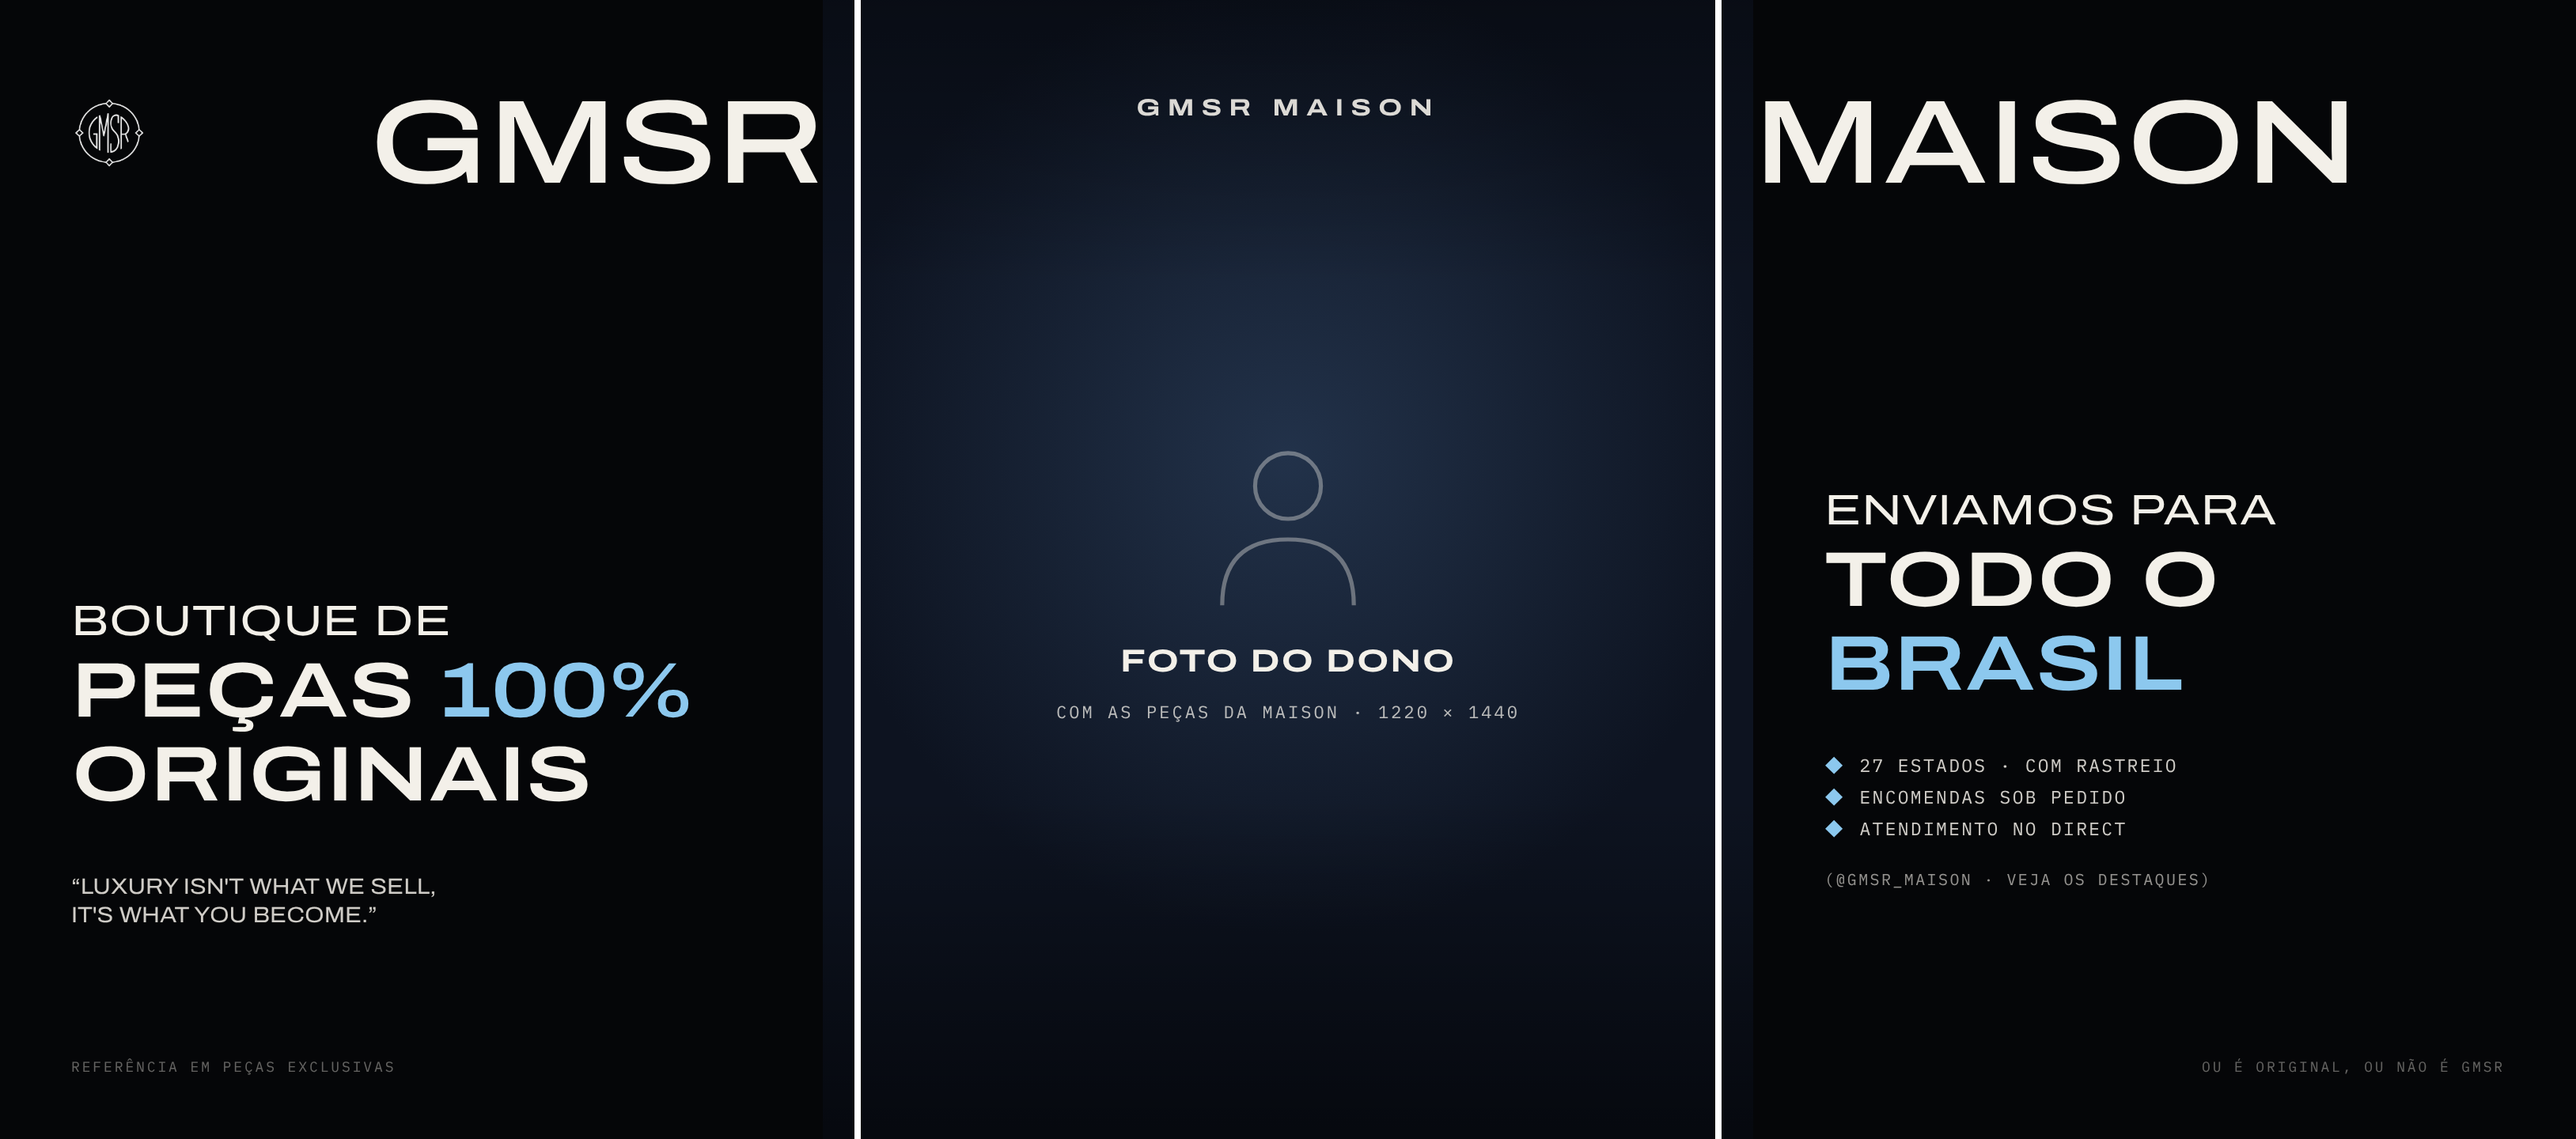
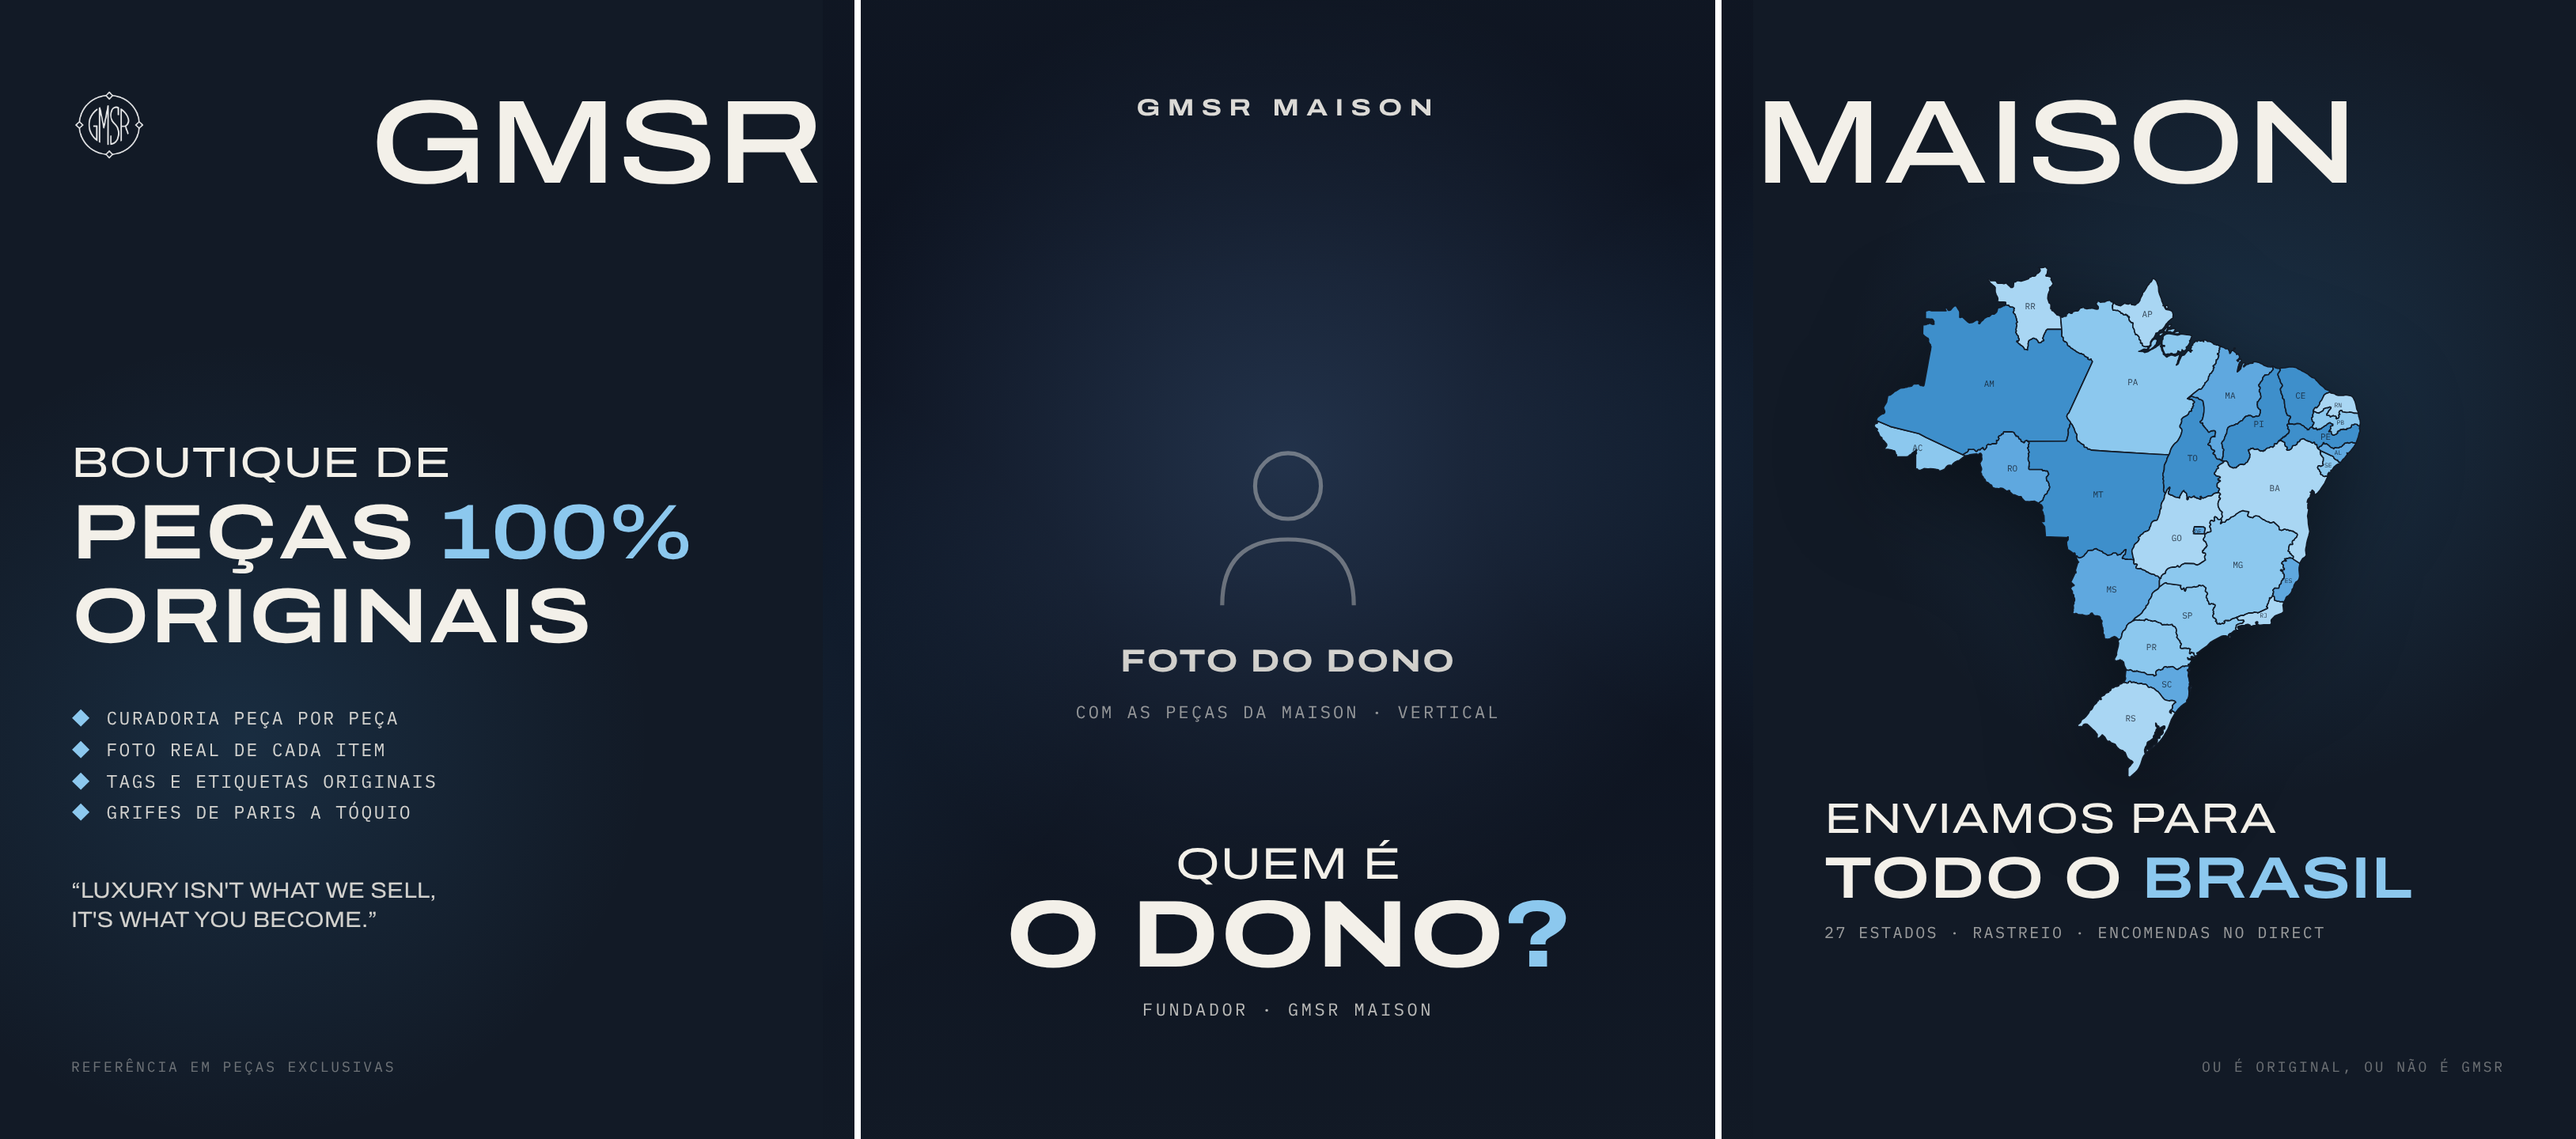
Grade: conteúdo da GMSR, "Quem é o dono" no meio e mapa do Brasil na direita
- Esquerda: boutique de peças 100% originais, curadoria e foto real
- Meio: "Quem é o dono?" sobre a foto do dono (espaço reservado até a foto chegar)
- Direita: mapa dos 27 estados e "Enviamos para todo o Brasil"
- Fundo e destaques nas cores da GMSR
- Legenda atualizada

Claude-Session: https://claude.ai/code/session_018Rxm36svjxPgU3W8TLCnbb

diff --git a/posts-grade/01-grade-loja/slides.html b/posts-grade/01-grade-loja/slides.html
@@ -44,21 +44,42 @@
 
   .logo-s{position:absolute;width:96px;opacity:.9;z-index:3}
   .foot{position:absolute;bottom:80px;font-family:Mono;font-size:18px;letter-spacing:.16em;text-transform:uppercase;color:rgba(243,240,233,.4);z-index:3}
+
+  /* cores GMSR */
+  .slide.tile,.pano,.panel{background:#121A26 !important}
+  .pano:before{content:"";position:absolute;inset:0;background:radial-gradient(40% 50% at 15% 60%,rgba(62,143,203,.18),transparent 70%),radial-gradient(40% 50% at 85% 40%,rgba(62,143,203,.22),transparent 70%);z-index:1}
+  .panel{z-index:1}
+  .panel.l{background:radial-gradient(70% 50% at 30% 65%,rgba(62,143,203,.16),transparent 70%),#121A26 !important}
+  .panel.r{background:radial-gradient(70% 50% at 60% 35%,rgba(62,143,203,.2),transparent 70%),#121A26 !important}
+  .who{position:absolute;left:0;right:0;bottom:150px;text-align:center;z-index:3}
+  .who .k2{font-weight:400;font-size:56px;color:#F3F0E9}
+  .who .t2{font-weight:700;font-size:120px;color:#F3F0E9;margin-top:6px}
+  .who .t2 em{font-style:normal;color:var(--sky)}
+  .who .s2{font-family:Mono;font-size:22px;letter-spacing:.16em;text-transform:uppercase;color:rgba(243,240,233,.75);margin-top:22px}
+  .photo .shade{background:linear-gradient(180deg,rgba(18,26,38,.45),transparent 25%,transparent 50%,rgba(18,26,38,.92)) !important}
+  .mapbox{position:absolute;left:2330px;top:330px;width:660px;height:660px;z-index:3;filter:drop-shadow(0 30px 60px rgba(0,0,0,.5))}
+  .mapa{width:100%;height:100%}
 </style>
 </head>
 <body>
 
 <template id="art">
   <div class="pano">
+    <!-- MEIO: quem é o dono (foto em assets/fotos/dono.jpg) -->
     <div class="photo">
       <img src="../../assets/fotos/dono.jpg" alt="" onerror="this.remove()">
       <div class="ph">
         <svg viewBox="0 0 100 100" fill="none" stroke="currentColor" stroke-width="2"><circle cx="50" cy="34" r="16"/><path d="M18 92 Q18 60 50 60 Q82 60 82 92"/></svg>
         <b>FOTO DO DONO</b>
-        <span>Com as peças da maison · 1220 × 1440</span>
+        <span>Com as peças da maison · vertical</span>
       </div>
       <div class="shade"></div>
       <div class="tag">GMSR MAISON</div>
+      <div class="who">
+        <div class="wide k2">Quem é</div>
+        <div class="wide t2">o dono<em>?</em></div>
+        <div class="s2">Fundador · GMSR Maison</div>
+      </div>
     </div>
 
     <div class="panel l"></div>
@@ -68,24 +89,26 @@
     <div class="wide mark r">MAISON</div>
 
     <!-- ESQUERDA: a loja -->
-    <img class="logo-s" src="../../assets/logo/gmsr-mono-branco.png" style="left:90px;top:120px" alt="">
-    <div class="copy wide" style="left:90px;top:760px;width:900px">
+    <img class="logo-s" src="../../assets/logo/gmsr-mono-branco.png" style="left:90px;top:110px" alt="">
+    <div class="copy wide" style="left:90px;top:560px;width:900px">
       <div class="k">Boutique de</div>
       <div class="t">Peças <em>100%</em><br>originais</div>
+      <div class="info">
+        <div><i>◆</i>Curadoria peça por peça</div>
+        <div><i>◆</i>Foto real de cada item</div>
+        <div><i>◆</i>Tags e etiquetas originais</div>
+        <div><i>◆</i>Grifes de Paris a Tóquio</div>
+      </div>
       <div class="q">“Luxury isn't what we sell,<br>it's what you become.”</div>
     </div>
     <div class="foot" style="left:90px">Referência em peças exclusivas</div>
 
-    <!-- DIREITA: informações -->
-    <div class="copy wide" style="left:2290px;top:620px;width:860px">
+    <!-- DIREITA: envio + mapa -->
+    <div class="mapbox"><div class="mapa" data-cores="#8CC8EE,#5FA8DF,#A9D6F3,#3E8FCB" data-fundo="#121A26" data-label="#121A26"></div></div>
+    <div class="copy wide" style="left:2290px;top:1010px;width:860px">
       <div class="k">Enviamos para</div>
-      <div class="t">todo o<br><em>Brasil</em></div>
-      <div class="info">
-        <div><i>◆</i>27 estados · com rastreio</div>
-        <div><i>◆</i>Encomendas sob pedido</div>
-        <div><i>◆</i>Atendimento no Direct</div>
-      </div>
-      <div class="s" style="margin-top:44px">(@gmsr_maison · veja os destaques)</div>
+      <div class="t" style="font-size:74px">todo o <em>Brasil</em></div>
+      <div class="s">27 estados · rastreio · encomendas no Direct</div>
     </div>
     <div class="foot" style="right:90px">Ou é original, ou não é GMSR</div>
   </div>
@@ -95,6 +118,7 @@
 <section class="slide tile"></section>
 <section class="slide tile"></section>
 
+<script src="../../assets/mapa-brasil.js"></script>
 <script>
   // copia a arte contínua para os 3 posts, cada um mostrando um terço
   const art = document.getElementById('art');
@@ -103,5 +127,6 @@
     s.querySelector('.pano').style.left = (-1080 * i) + 'px';
   });
 </script>
+<script src="../../shared/mapa.js"></script>
 </body>
 </html>

diff --git a/site-data.js b/site-data.js
@@ -138,8 +138,8 @@ window.VERSIONS = [
       {
         "n": 1,
         "dir": "01-grade-loja",
-        "title": "A loja, o dono e as informações",
-        "caption": "GMSR Maison. Boutique de peças 100% originais. ◆\n\nLuxury isn't what we sell, it's what you become.\n\n📦 Enviamos para todo o Brasil, com rastreio\n🔎 Encomendas sob pedido\n📩 Atendimento no Direct: @gmsr_maison\n\nOu é original, ou não é GMSR.\n\n.\n.\n.\n#gmsrmaison #100original #boutique #modamasculina #pecasoriginais #luxurystyle",
+        "title": "A loja · Quem é o dono · Envio com mapa",
+        "caption": "Quem é o dono da GMSR? ◆\n\nPor trás de cada peça da maison existe alguém que escolhe uma a uma, com critério. A GMSR Maison é uma boutique de peças 100% originais, com curadoria peça por peça e foto real de cada item.\n\nLuxury isn't what we sell, it's what you become.\n\n📦 Enviamos para todo o Brasil, com rastreio\n🔎 Encomendas sob pedido\n📩 Atendimento no Direct: @gmsr_maison\n\nOu é original, ou não é GMSR.\n\n.\n.\n.\n#gmsrmaison #100original #boutique #modamasculina #pecasoriginais #luxurystyle",
         "slides": [
           "posts-grade/01-grade-loja/previa-grade.png",
           "posts-grade/01-grade-loja/png/slide-01.png",

diff --git a/posts-grade/01-grade-loja/legenda.md b/posts-grade/01-grade-loja/legenda.md
@@ -1,5 +1,7 @@
 # Grade do perfil · 3 posts que formam uma imagem
 
+**Esquerda:** a loja (100% original, curadoria, foto real) · **Meio:** quem é o dono · **Direita:** envio para todo o Brasil, com o mapa
+
 **Formato:** 3 posts de 1080×1440 (3:4), que lado a lado na grade formam uma arte só
 **Imagens:** `png/slide-01.png` (esquerda), `png/slide-02.png` (meio), `png/slide-03.png` (direita)
 **Prévia:** `previa-grade.png`
@@ -17,7 +19,9 @@ Depois, fixe os três no topo do perfil, nesta mesma ordem, para a arte ficar se
 
 ## Legenda
 
-GMSR Maison. Boutique de peças 100% originais. ◆
+Quem é o dono da GMSR? ◆
+
+Por trás de cada peça da maison existe alguém que escolhe uma a uma, com critério. A GMSR Maison é uma boutique de peças 100% originais, com curadoria peça por peça e foto real de cada item.
 
 Luxury isn't what we sell, it's what you become.
 
